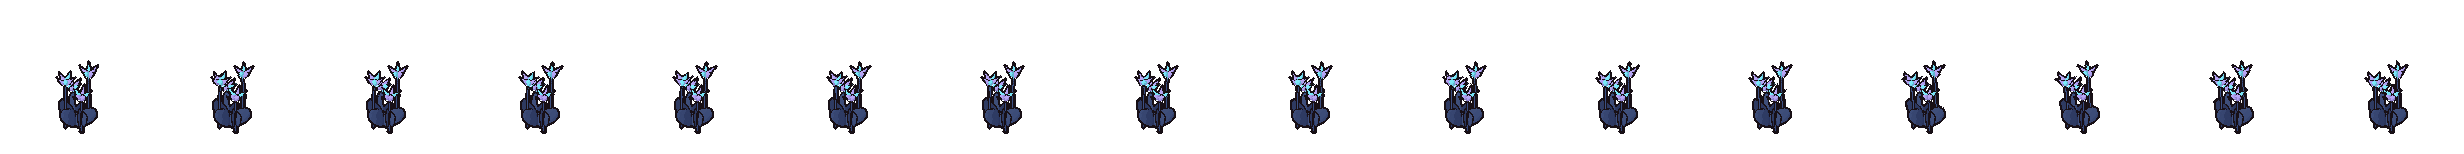
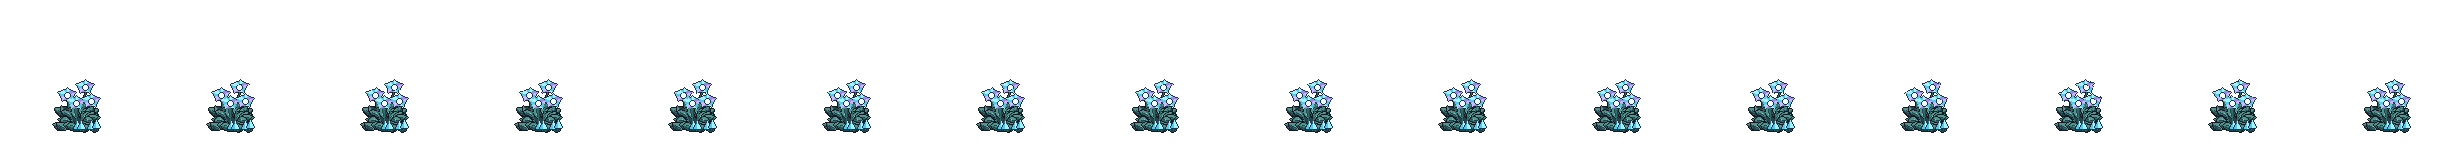
v1.04: Ctrl+clique, luta continua, pegar item ao passar, plantas novas

Changed region(s): [[0.0, 0.4156, 1.0, 0.8571]]

diff --git a/js/game.js b/js/game.js
@@ -876,6 +876,15 @@
   const STATIONS = { merchant: "shop", stall: "shop", guard: "guard", bank: "bank", furnace: "furnace", anvil: "anvil", fire: "fire", board: "board",
     bard: "bard", shrine: "shrine", crypt: "crypt", crypt_exit: "crypt_exit", crypt_chest: "chest", den: "den", dummy: "dummy", marker: "marker", herb: "herb", rune: "rune", carto: "carto", miner: "miner", rift: "rift", seal: "seal", home: "home", pedestal: "home" }; // rodada 100: casa
   // O que está sob o cursor (monstros pela área desenhada, para acertar alvos em movimento)
+  // rodada 105: monstro vivo mais perto do ponto da tela (até 4 tiles), para o Ctrl + clique
+  function nearestMob(px, py, r = 4) {
+    const fx = (px + cam.x) / TILE, fy = (py + cam.y) / TILE; let best = null, bd = r;
+    for (const m of mobs) {
+      if (m.dead || m.pet || m.appear != null) continue;
+      const d = Math.hypot(m.px + 0.5 - fx, m.py + 0.5 - fy); if (d < bd) { bd = d; best = m; }
+    }
+    return best;
+  }
   function pick(px, py) {
     const fx = (px + cam.x) / TILE, fy = (py + cam.y) / TILE;
     let best = null;
@@ -959,11 +968,12 @@
   }
   if (/[?&]debug\b/.test(location.search)) window.__vd = { player: () => player, mobs: () => mobs, setTarget, shots: () => shots,
     advance: (sec) => { for (let t = 0; t < sec; t += 0.05) { if (SCENE.active()) SCENE.update(0.05); else update(0.05); } updateHud(); }, emit: (e) => emit(e), objs: () => objects,
-    tp: (x, y) => { Object.assign(player, { x, y, fx: x, fy: y, px: x, py: y, prog: 1, path: [], goal: null, target: null, job: null }); CAMERA.reset(); }, give: (n, q = 1) => addItem(n, q), anims: () => Object.keys(ANIMS) }; // rodada 104: inspeção pelo console (só com ?debug)
+    tp: (x, y) => { Object.assign(player, { x, y, fx: x, fy: y, px: x, py: y, prog: 1, path: [], goal: null, target: null, job: null }); CAMERA.reset(); }, give: (n, q = 1) => addItem(n, q), anims: () => Object.keys(ANIMS),
+    drop: (n, q, x, y) => dropItem(n, q, x, y), ground: () => groundItems, screen: (x, y) => [((x + 0.5) * TILE - cam.x) * ZOOM, ((y + 0.5) * TILE - cam.y) * ZOOM] }; // rodada 104: inspeção pelo console (só com ?debug)
   // mouse, toque e minimapa (js/pointer.js)
   const POINTER = ValdoraPointer.create({ canvas, cam, TILE, W, H, zoom: () => ZOOM, running: () => running, player: () => player, map: () => map,
     closeDlg: () => closeDlg(), pick: (x, y) => pick(x, y), log: (m, c) => log(m, c), goTo: (g) => goTo(g), adjRect: (x, y, o) => adjRect(x, y, o),
-    clickFx: (...a) => clickFx(...a), setTarget: (p) => setTarget(p), walkable: (x, y) => walkable(x, y), inside: (x, y) => inside(x, y) });
+    clickFx: (...a) => clickFx(...a), setTarget: (p) => setTarget(p), nearestMob: (x, y) => nearestMob(x, y), walkable: (x, y) => walkable(x, y), inside: (x, y) => inside(x, y) });
   const PST = POINTER.st, updateTouch = POINTER.updateTouch;
 
   // ---------- Ações (executadas em ticks) ----------
@@ -1546,8 +1556,7 @@
       if (pe.heavy && SND.opts.shake) shake = 0.3;
       if (player.hp <= 0) return playerDied();
     } else addFloat(player.px + 0.5, player.py - 0.3, "bloqueou", "#9fd0ff", 0.8, 12);
-    // revida sozinho se estiver parado
-    if (!player.target && !player.path.length && !player.job) player.target = { kind: "mob", ref: m };
+    // rodada 105: não revida sozinho — o herói só luta com o monstro que o jogador escolheu (clique, Ctrl + clique ou Espaço)
   }
   function playerDied() { // toca a animação de morte e só então volta à vila
     if (player.deadT > 0) return;
@@ -2040,7 +2049,11 @@
     }
     if (!player.dash) { player.px = player.fx + (player.x - player.fx) * player.prog; player.py = player.fy + (player.y - player.fy) * player.prog; }
     const moving = player.prog < 1 && !player.dash;
-    if (wasMoving && !moving && groundItems.some((g) => g.x === player.x && g.y === player.y)) pickupAt(player.x, player.y, false);
+    // rodada 105: pega o que estiver no chão ao passar por cima (no meio do passo), não só ao parar no tile
+    const tileKey = player.x + "," + player.y;
+    if ((moving ? player.prog >= 0.5 : wasMoving) && player.pickTile !== tileKey && groundItems.some((g) => g.x === player.x && g.y === player.y)) {
+      player.pickTile = tileKey; pickupAt(player.x, player.y, false);
+    } else if (player.pickTile && player.pickTile !== tileKey && !moving) player.pickTile = null;
     player.flash = Math.max(0, player.flash - dt); player.hitT = Math.max(0, (player.hitT || 0) - dt); player.blockT = Math.max(0, (player.blockT || 0) - dt); player.cancelT = Math.max(0, (player.cancelT || 0) - dt); player.cheerT = Math.max(0, (player.cheerT || 0) - dt); player.eatT = Math.max(0, (player.eatT || 0) - dt);
     for (const k in player.cd) player.cd[k] = Math.max(0, player.cd[k] - dt);
     if (player.ghosts) { for (const g of player.ghosts) g.a -= dt * 2.2; player.ghosts = player.ghosts.filter((g) => g.a > 0); if (!player.ghosts.length) player.ghosts = null; }
@@ -2238,10 +2251,11 @@
     drawPathDots(t);
     if (player.target) outlineTarget(player.target, "#f1c40f", t);
     if (PST.mouse) {
-      const hover = PST.hover = pick(PST.mouse.x, PST.mouse.y);
+      const am = PST.attack && nearestMob(PST.mouse.x, PST.mouse.y); // rodada 105: modo de ataque (Ctrl): mira no monstro mais perto
+      const hover = PST.hover = am ? { kind: "mob", ref: am } : pick(PST.mouse.x, PST.mouse.y);
       const interactive = hover && hover.kind !== "tile";
-      canvas.style.cursor = interactive ? "pointer" : "default";
-      if (interactive && (!player.target || player.target.ref !== hover.ref)) outlineTarget(hover, "#ffffff88", t);
+      canvas.style.cursor = PST.attack ? "crosshair" : interactive ? "pointer" : "default";
+      if (interactive && (!player.target || player.target.ref !== hover.ref)) outlineTarget(hover, am ? "#ff5a4acc" : "#ffffff88", t);
     }
     for (const m of mobs) if (!m.dead && m.px > x0 - 3 && m.px < x1 + 2 && m.py > y0 - 2 && m.py < y1 + 3) ents.push({ y: m.py, m });
     if (pet && player.pet && !(pet.down && inCrypt)) ents.push({ y: (pet.down || pet.napping ? pet.y : pet.py) + 0.01, m: pet }); // rodada 100: por cima da cama // rodada 95; rodada 96: descansando na vila

diff --git a/js/pointer.js b/js/pointer.js
@@ -1,11 +1,27 @@
 // Valdora — mouse e toque no mapa (rodada 15: saiu do game.js). Clique escolhe alvo ou anda; no celular, tocar = clicar e
-// segurar = andar seguindo o dedo. O minimapa também leva o herói até o ponto clicado.
+// segurar = andar seguindo o dedo. O minimapa também leva o herói até o ponto clicado. Ctrl + clique ataca o monstro mais perto.
 window.ValdoraPointer = (() => {
   "use strict";
   function create(api) {
     const { canvas, cam, TILE, W, H, closeDlg, pick, log, goTo, adjRect, clickFx, setTarget, walkable, inside } = api;
     const $ = (id) => document.getElementById(id);
-    const st = { mouse: null, hover: null };
+    const st = { mouse: null, hover: null, attack: false };
+    // rodada 105: segurando Ctrl entra no modo de ataque: o clique golpeia o monstro mais perto do ponto clicado (não precisa
+    // acertar o monstro em si). Sem monstro por perto do ponto, anda até lá como um clique comum.
+    const setAttack = (on) => { st.attack = !!on; };
+    window.addEventListener("keydown", (e) => { if (e.key === "Control") setAttack(true); });
+    window.addEventListener("keyup", (e) => { if (e.key === "Control") setAttack(false); });
+    window.addEventListener("blur", () => setAttack(false));
+    function attackClick(e) {
+      const m = api.nearestMob(e.clientX / api.zoom(), e.clientY / api.zoom());
+      if (!m) return false;
+      closeDlg(); api.player().job = null; setTarget({ kind: "mob", ref: m }); clickFx(m.px + 0.5, m.py + 0.6, "#ff5a4a");
+      return true;
+    }
+    canvas.addEventListener("contextmenu", (e) => { // no Mac, Ctrl+clique chega como clique direito
+      if (!e.ctrlKey || !api.running() || api.player().deadT > 0) return;
+      e.preventDefault(); attackClick(e);
+    });
     canvas.addEventListener("mousemove", (e) => { st.mouse = { x: e.clientX / api.zoom(), y: e.clientY / api.zoom() }; });
     canvas.addEventListener("mouseleave", () => { st.mouse = null; st.hover = null; });
     // ---------- Toque (celular): tocar = clicar; segurar = andar seguindo o dedo ----------
@@ -26,6 +42,7 @@ window.ValdoraPointer = (() => {
       if (!api.running()) return;
       if (suppressClick) { suppressClick = false; return; }
       if (api.player().deadT > 0) return;
+      if ((e.ctrlKey || st.attack) && attackClick(e)) return;
       closeDlg(); api.player().job = null;
       const p = pick(e.clientX / api.zoom(), e.clientY / api.zoom()); if (!p) return;
       if (p.kind === "sign") { log(`Placa: ${p.ref.label}`, "dim"); return; }

diff --git a/js/lobby.js b/js/lobby.js
@@ -14,6 +14,9 @@
     ["v1.04", "Movimento em 8 direções", ["Heróis, moradores e monstros agora olham e andam nas diagonais, com animação própria para cada direção",
       "Cortar árvore, minerar, pescar, assar na fogueira, falar com alguém ou lutar: dá para fazer de qualquer lado, inclusive na diagonal",
       "Os monstros também te perseguem e atacam na diagonal; a dança de lado do herói e do monstro acabou",
+      "Segure Ctrl e clique perto de um monstro: o herói ataca o mais próximo do ponto clicado (não precisa acertar o monstro)",
+      "Passar por cima de um item no chão já pega (antes só parando em cima)",
+      "Plantas de coleta redesenhadas para combinar com cada região",
       "Fogueira, braseiro e tocha: só a chama se mexe"]],
     ["v1.03", "Arqueiro, equipamento de verdade e plantas", ["Novo herói: o Arqueiro (no lugar do Marinheiro) atira flechas de longe; com arco equipado, qualquer herói atira",
       "Todos começam só de roupa de baixo; o que você veste aparece no personagem (camisa, placas, calça, botas, capuz, elmo, capa, aljava e arma)",
@@ -283,7 +286,7 @@
     ["v0.1", "Primeiros passos", ["Vila de Lumeira, loja do Bento e encomendas", "Coleta, culinária e combate em ticks", "Salvamento no navegador"]],
   ];
   const HOW = [
-    ["Andar e agir", "WASD ou setas para andar. Clique em árvores, veios, cardumes, monstros e pessoas para interagir. Clique no minimapa para viajar."],
+    ["Andar e agir", "WASD ou setas para andar (duas teclas juntas andam na diagonal). Clique em árvores, veios, cardumes, monstros e pessoas para interagir, de qualquer lado. Segure Ctrl e clique perto de um monstro para atacar o mais próximo do ponto. Passar por cima de um item já pega. Clique no minimapa para viajar."],
     ["Coletar", "Corte, minere e pesque. Recursos se esgotam e voltam. Níveis mais altos liberam materiais melhores."],
     ["Forjar e criar", "Funda minério na fornalha, forje na bigorna e use o Artesanato (na mochila) para bolsas e acessórios."],
     ["Lutar", "Combate em turnos rápidos, com três estilos e uma passiva em cada. Coma peixe ou carne para curar (tecla 1). Golpe giratório (Q) acerta todos em volta; Investida (E) e Golpe esmagador (R) atordoam."],

diff --git a/index.html b/index.html
@@ -40,7 +40,7 @@
           <div id="heroes"></div>
           <p id="new-warn" class="warn" hidden>Começar um novo jogo apaga o progresso salvo. Clique de novo para confirmar.</p>
           <button id="play">COMEÇAR AVENTURA</button>
-          <p class="hint">WASD / setas para andar · clique para interagir · o Guarda Ivo ensina o resto</p>
+          <p class="hint">WASD / setas para andar · clique para interagir · Ctrl + clique ataca o monstro mais perto · o Guarda Ivo ensina o resto</p>
           <div id="lobby-tip" class="lobby-tip" title="Clique para outra dica"></div>
         </div>
       </div>

diff --git a/CHANGELOG.md b/CHANGELOG.md
@@ -32,6 +32,13 @@ Mudanças de cada rodada, da mais nova para a mais antiga. O README descreve o j
   diagonal, golpe só se um dos tiles do meio não for parede/água. Monstros andam e atacam na diagonal (sem cortar quina) e o passo
   diagonal dura √2; moradores passeiam na diagonal. Saiu a espera da "dança da diagonal" (rodadas 48/83).
 - **Fogo:** fogueira, braseiro e tocha deixam pedras, lenha e ferro iguais à arte parada; só a chama e as fagulhas mudam (`fire_only`).
+- **Ctrl + clique (modo de ataque):** segurando Ctrl o cursor vira mira e o monstro mais perto do ponto (até 4 tiles) ganha contorno
+  vermelho; o clique ataca esse monstro (`nearestMob`). No Mac, Ctrl+clique chega como clique direito e também vale.
+- **Luta por clique:** um clique no monstro basta — o herói segue batendo até ele morrer, o herói morrer ou o jogador andar.
+  Saiu o "revida sozinho": depois de matar, não puxa outro monstro sem um novo clique.
+- **Itens no chão:** passar por cima já pega (no meio do passo), não só parando no tile.
+- **Plantas de coleta redesenhadas** em pixel art (`tools/plants2d.py`): folhas em cacho com contorno, sombra e luz, paleta por região
+  (campos, leste, Mata Sombria, planalto de lumita) e vento só na copa. As plantas 3D da rodada 104 ficaram em `art/backup_plants3d/`.
 - Testes: 3 novos (direções, diagonais nas folhas, monstro atacando e andando na diagonal).
 
 ## Rodada 104 (v1.03)
